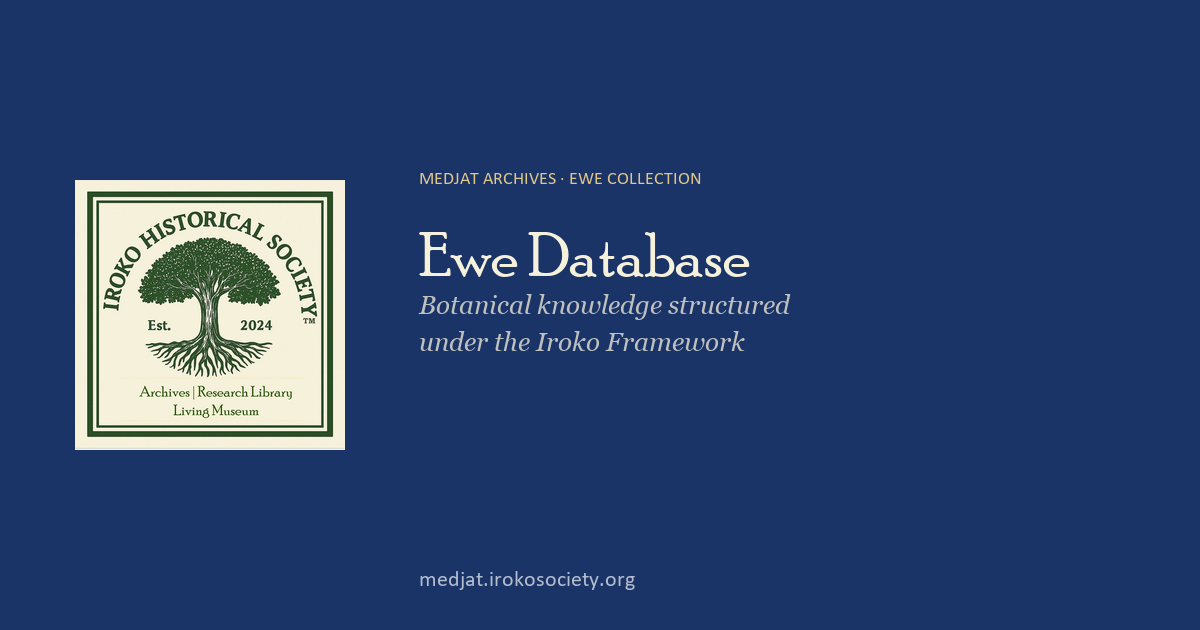
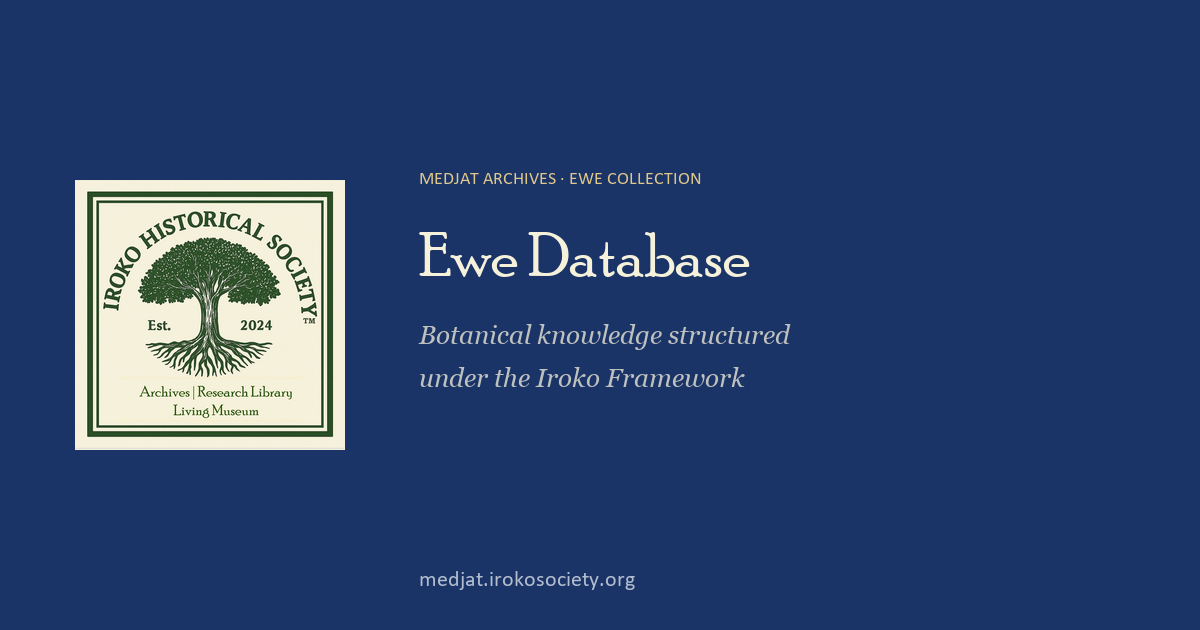
OG social updates

Changed region(s): [[0.3392, 0.4524, 0.6783, 0.6333]]

diff --git a/generate-og.py b/generate-og.py
@@ -45,6 +45,7 @@ TEXT_X_LOGO             = LOGO_BOX["x"] + LOGO_BOX["w"] + 75
 RIGHT_PAD               = 72
 LABEL_Y                 = 170
 TITLE_OFFSET_FROM_LABEL = 38
+TITLE_SUBTITLE_GAP      = 20
 
 SZ_LABEL  = 18
 SZ_TITLE  = 62
@@ -253,6 +254,12 @@ def _text_h(draw, text, font) -> int:
     bb = draw.textbbox((0, 0), text, font=font)
     return bb[3] - bb[1]
 
+def _line_h(font) -> int:
+    if hasattr(font, "getmetrics"):
+        ascent, descent = font.getmetrics()
+        return ascent + descent
+    return _text_h(ImageDraw.Draw(Image.new("RGB", (1, 1))), "Ag", font)
+
 def wrap_text(draw, text, font, max_w) -> list:
     """Wrap text while preserving any deliberate line breaks in the source."""
     lines = []
@@ -276,9 +283,10 @@ def wrap_text(draw, text, font, max_w) -> list:
     return lines
 
 def draw_wrapped(draw, text, font, x, y, max_w, color, leading_mult=1.25) -> int:
+    line_step = int(_line_h(font) * leading_mult)
     for line in wrap_text(draw, text, font, max_w):
         draw.text((x, y), line, font=font, fill=color)
-        y += int(_text_h(draw, line, font) * leading_mult)
+        y += line_step
     return y
 
 def auto_size_title(draw, title, max_w):
@@ -313,7 +321,7 @@ def make_og_image(page: dict) -> Image.Image:
     title_y    = LABEL_Y + TITLE_OFFSET_FROM_LABEL + _text_h(draw, "A", f_label)
     title_end  = draw_wrapped(draw, page["title"], f_title, text_x, title_y, max_w, sc["col_title"], 1.15)
     f_sub = get_font("garamond_ital", SZ_SUB)
-    draw_wrapped(draw, page["subtitle"], f_sub, text_x, title_end + 20, max_w, sc["col_sub"], 1.45)
+    draw_wrapped(draw, page["subtitle"], f_sub, text_x, title_end + TITLE_SUBTITLE_GAP, max_w, sc["col_sub"], 1.45)
     f_dom  = get_font("sourcesans", SZ_DOMAIN)
     domain = "medjat.irokosociety.org"
     dh     = _text_h(draw, domain, f_dom)
